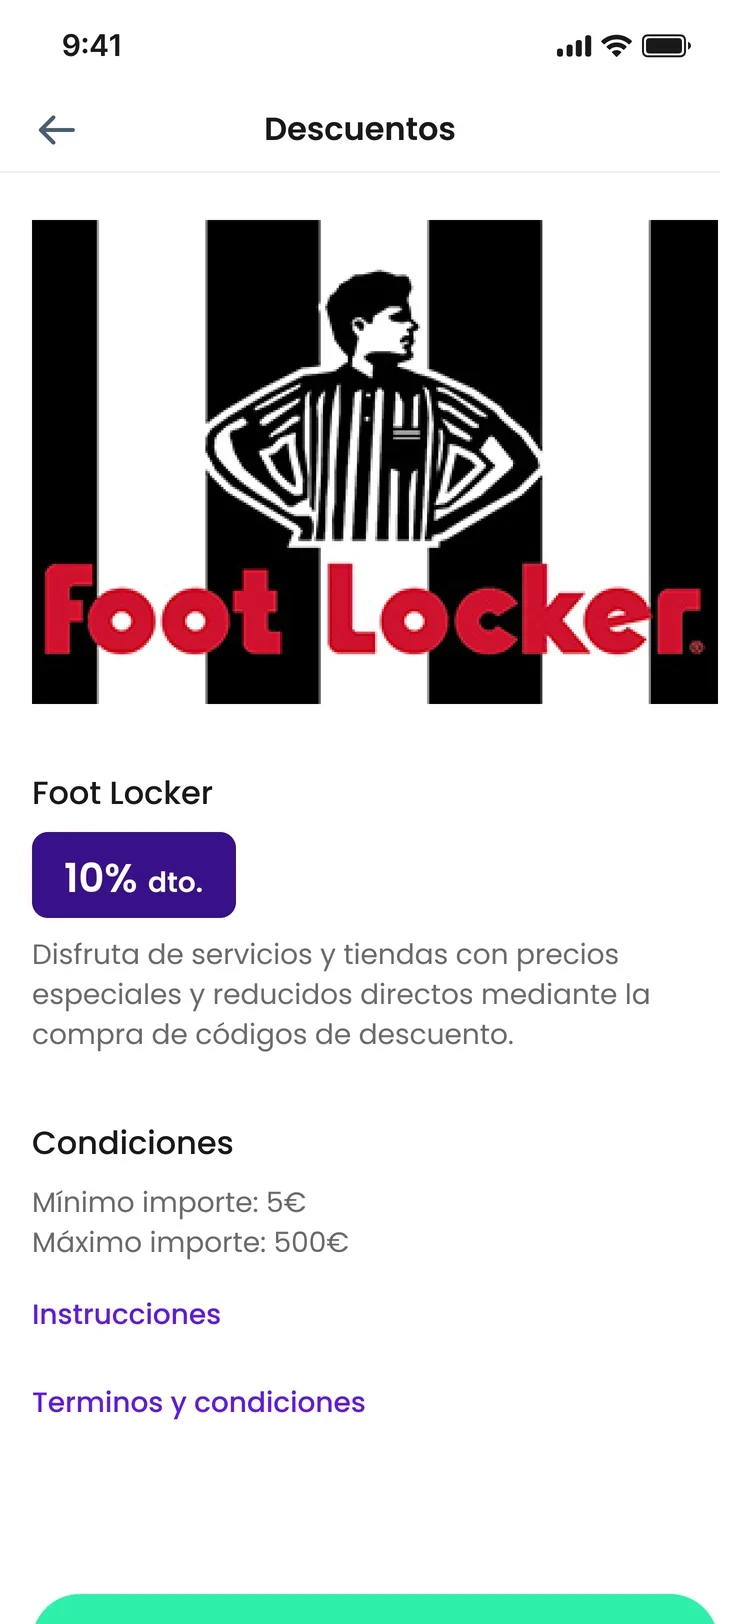
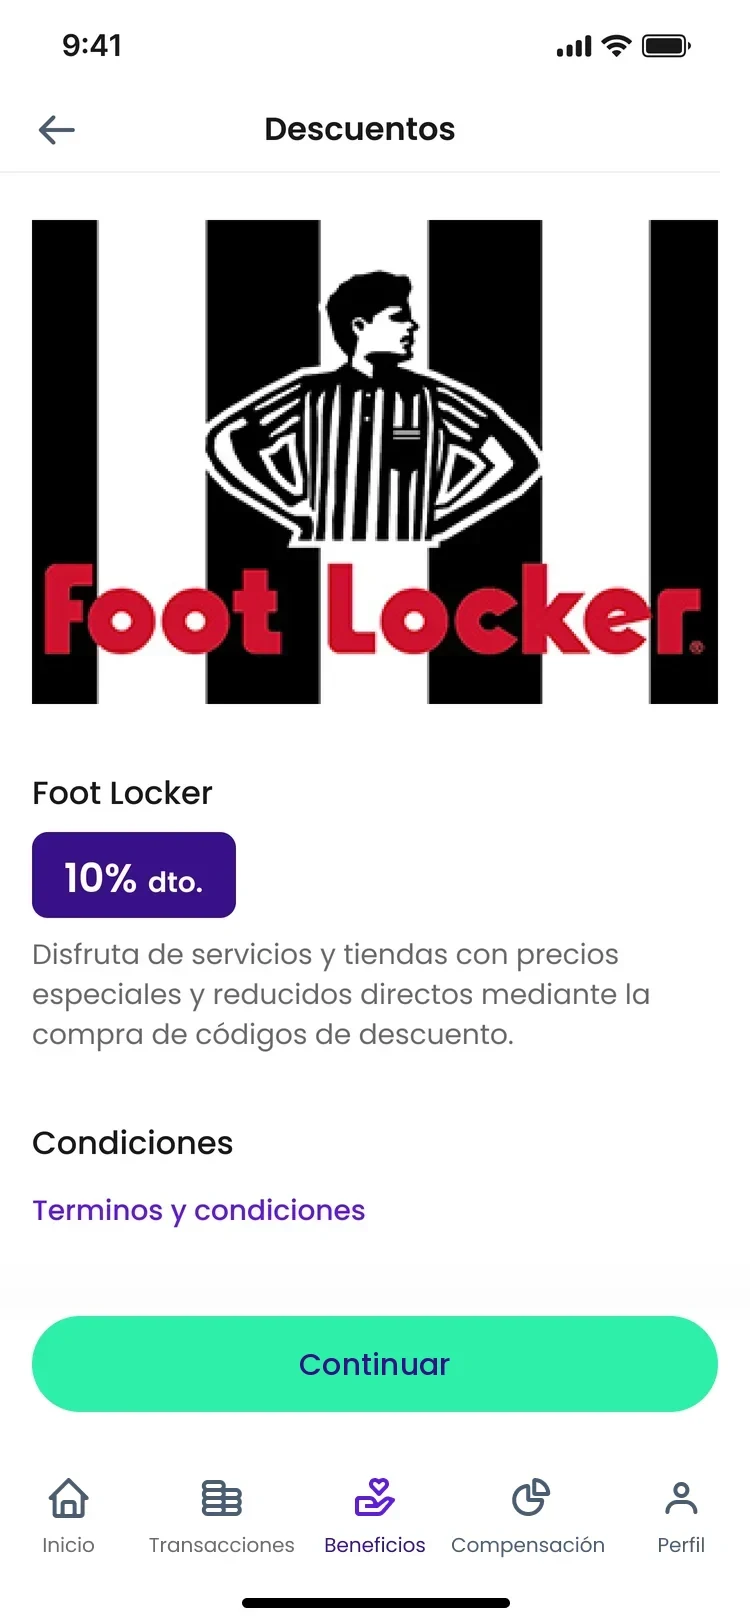
Borrador Descuentos: pantalla Después del experimento 1 con botón visible y sin fondo verde
Claude-Session: https://claude.ai/code/session_01KdCYXQfu29BfYb63X4gCzQ

Changed region(s): [[0.0307, 0.8005, 0.9813, 1.0], [0.0307, 0.7389, 0.4907, 0.7697]]

diff --git a/dist/portfolio.html b/dist/portfolio.html
@@ -1849,6 +1849,7 @@ img[data-zoom]:focus-visible{outline:3px solid var(--ink);outline-offset:3px}
 @media (max-width:640px){.trip .tr-d{display:none}.trip .tr-m{display:block}.trip .tr-list{display:grid}
   .tf-row{grid-auto-columns:150px;overflow-x:auto;scroll-snap-type:x mandatory;padding-bottom:6px;margin-right:-4px}.tf-s,.tf-b{scroll-snap-align:start}.tf-hint{display:block}}
 @media (prefers-reduced-motion:reduce){.tr-bar,.tr-fx{transition:none}}
+.story .ba{background:var(--surface)}
 </style>
 <header class="top">
   <div class="wrap">

diff --git a/index.html b/index.html
@@ -1855,6 +1855,7 @@ img[data-zoom]:focus-visible{outline:3px solid var(--ink);outline-offset:3px}
 @media (max-width:640px){.trip .tr-d{display:none}.trip .tr-m{display:block}.trip .tr-list{display:grid}
   .tf-row{grid-auto-columns:150px;overflow-x:auto;scroll-snap-type:x mandatory;padding-bottom:6px;margin-right:-4px}.tf-s,.tf-b{scroll-snap-align:start}.tf-hint{display:block}}
 @media (prefers-reduced-motion:reduce){.tr-bar,.tr-fx{transition:none}}
+.story .ba{background:var(--surface)}
 </style>
 </head>
 <body>

diff --git a/src/styles.css b/src/styles.css
@@ -1844,3 +1844,4 @@ img[data-zoom]:focus-visible{outline:3px solid var(--ink);outline-offset:3px}
 @media (max-width:640px){.trip .tr-d{display:none}.trip .tr-m{display:block}.trip .tr-list{display:grid}
   .tf-row{grid-auto-columns:150px;overflow-x:auto;scroll-snap-type:x mandatory;padding-bottom:6px;margin-right:-4px}.tf-s,.tf-b{scroll-snap-align:start}.tf-hint{display:block}}
 @media (prefers-reduced-motion:reduce){.tr-bar,.tr-fx{transition:none}}
+.story .ba{background:var(--surface)}
